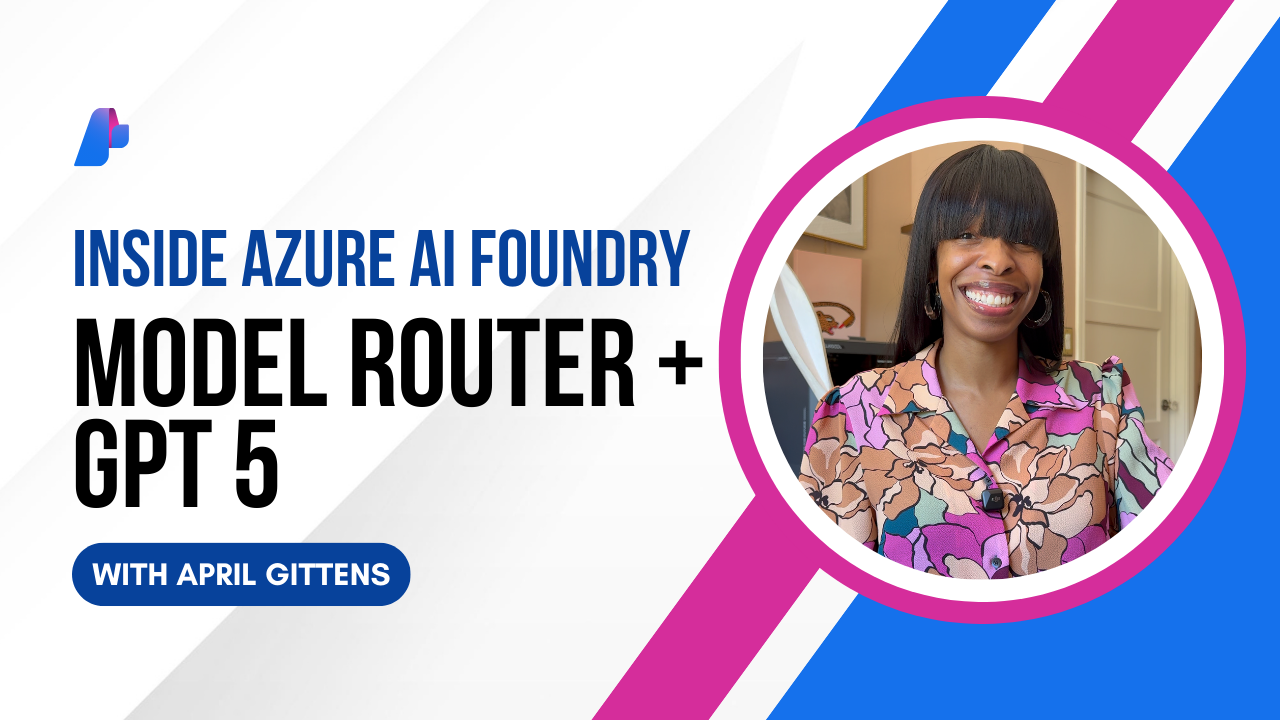
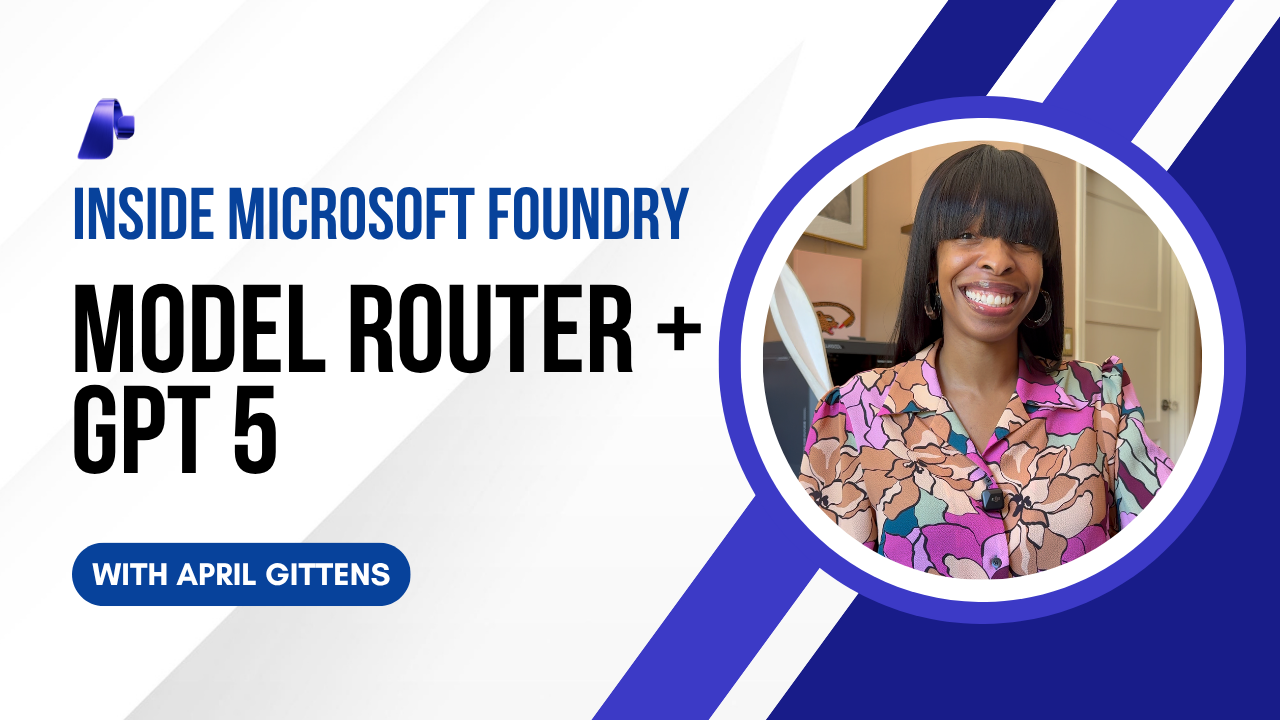
update README for Foundry branding

Changed region(s): [[0.0312, 0.0, 1.0, 1.0]]

diff --git a/README.md b/README.md
@@ -14,12 +14,12 @@ You can watch all episodes at [aka.ms/insideMF](https://aka.ms/insideMF)!
 | Browser Automation Tool (Preview) | [Watch Video](https://youtu.be/FBQRc-M18ws?si=uhhDtHJmKdCki-c2) | [View Sample](./Samples/Browser-Automation-Tool) | [Watch Episode](https://www.youtube.com/watch?v=fjSxraAmGMI&list=PLmsFUfdnGr3wzz6a4E-Szksg92JPng-AL&index=6&pp=iAQB0gcJCcMJAYcqIYzv) |
 | Mistral Document AI | [Watch Video](https://youtu.be/MUu9o8tDwi0?si=a78S_W-dpQrCOvP5) | [View Sample](./Samples/Mistral-Document-AI) | [Watch Episode](https://www.youtube.com/watch?v=tqOecUt_wCc&list=PLmsFUfdnGr3wzz6a4E-Szksg92JPng-AL&index=5&pp=iAQB) | [Watch Episode] |
 | Freeform Tool Calling | [Watch Video](https://youtu.be/y43sgs-Y8-U?si=g_FD5rxAN_qwyTeU) | [View Sample](./Samples/Freeform-Tool-Calling) | [Watch Episode](https://www.youtube.com/watch?v=Rr4iSCyE7IY&list=PLmsFUfdnGr3wzz6a4E-Szksg92JPng-AL&index=4&pp=iAQB) |
-| Azure AI Translator API (Public Preview) | [Watch Video](https://youtu.be/Xam_QQnb5wQ?si=J91ad6ZMSjp48J2S) | [View Sample](./Samples/Translator-API) | [Watch Episode](https://www.youtube.com/watch?v=gEH2ACNf5b0&list=PLmsFUfdnGr3wzz6a4E-Szksg92JPng-AL&index=1) |
+| Azure Translator API (Public Preview) | [Watch Video](https://youtu.be/Xam_QQnb5wQ?si=J91ad6ZMSjp48J2S) | [View Sample](./Samples/Translator-API) | [Watch Episode](https://www.youtube.com/watch?v=gEH2ACNf5b0&list=PLmsFUfdnGr3wzz6a4E-Szksg92JPng-AL&index=1) |
 | Foundry Models with GitHub Copilot | [Watch Video](https://youtu.be/pG6d6Wwl9gU) |  | [Watch Episode](https://www.youtube.com/watch?v=BANtEq-0FsE&list=PLmsFUfdnGr3wzz6a4E-Szksg92JPng-AL&index=1) |
-| Create an AI Agent with File Search in Azure AI Foundry (Portal) | [Watch Video](https://youtu.be/dBu3il7db0o?si=4H64cGhEz0KDqp_7) |[View Sample](./Samples/Create-Agent)  |  |
+| Create an AI Agent with File Search in Microsoft Foundry (Portal) | [Watch Video](https://youtu.be/dBu3il7db0o?si=4H64cGhEz0KDqp_7) |[View Sample](./Samples/Create-Agent)  |  |
 
 ## Discord
 
-Join the Discord: https://aka.ms/insideAIF/discord 
+Join the Discord: https://aka.ms/insideMF/discord 
 
-Hop onto the Forum: https://aka.ms/insideAIF/forum
+Hop onto the Forum: https://aka.ms/insideMF/forum
